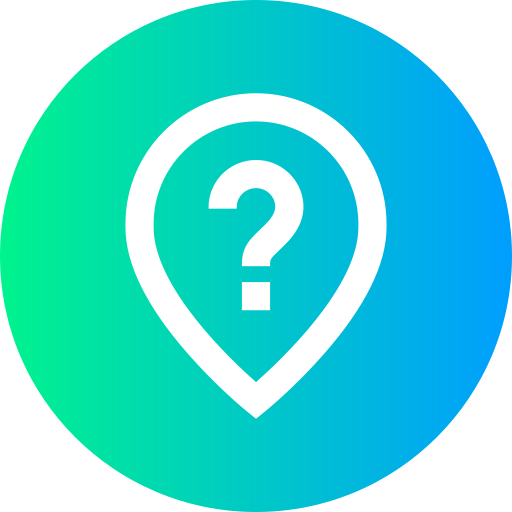
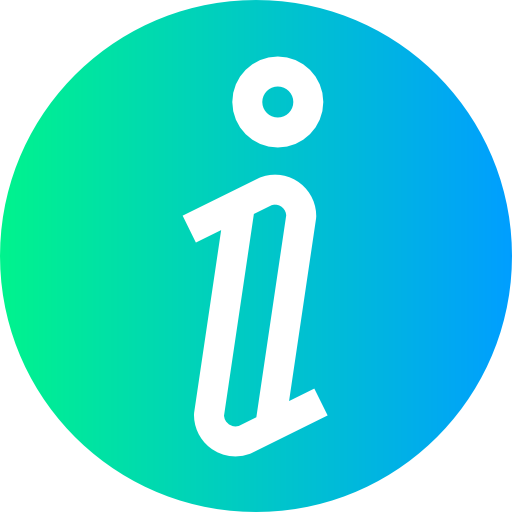
about modal info added

Changed region(s): [[0.2188, 0.0938, 0.7812, 0.9062]]

diff --git a/Components/CardAbout/CardAbout.js b/Components/CardAbout/CardAbout.js
@@ -1,0 +1,74 @@
+import React from 'react';
+import {View, Text, StyleSheet} from 'react-native';
+import {Card, Button} from 'react-native-elements';
+
+const CardAbout = ({...props}) => {
+  const {setModalVisible, visible} = props;
+
+  return (
+    <Card
+      containerStyle={styles.cardContainer}
+      wrapperStyle={styles.cardWrapperStyle}
+      title="About StibTrack">
+      <View style={styles.body}>
+        <Text style={styles.textCommon}>
+          The goal of StibTrack is to provide reliable real-time tracking
+          information obtained directly from STIB-MIVB public API. You'll find
+          any STIB-MIVB vehicle real-time position on the map as well as stops,
+          lines road, and more!
+        </Text>
+        <Text style={styles.textCommon}>
+          Most available applications provide only the schedule of any given
+          line (potential arrival/departure), so you can only guess where
+          exactly you transport is. But if you are an every-day user of
+          STIB-MIVB transportation system, you might want to have the
+          possibility to check where your next ride is, and be a little bit
+          ahead of time.
+        </Text>
+        <Text style={styles.textCommon}>
+          This is an open-source project, so if you want to dig a little bit in
+          the code, , please check the GitHub repo "dalisalvador/stib".
+        </Text>
+      </View>
+      <View style={styles.button}>
+        <Button
+          raised
+          title="Close"
+          onPress={() => setModalVisible(!visible)}
+        />
+      </View>
+    </Card>
+  );
+};
+
+const styles = StyleSheet.create({
+  body: {
+    flex: 1,
+    // backgroundColor: 'white',
+  },
+  button: {
+    justifyContent: 'flex-end',
+  },
+  cardWrapperStyle: {
+    borderWidth: 0,
+    flex: 1,
+  },
+  textCommon: {
+    fontSize: 15,
+    marginBottom: 5,
+  },
+  cardContainer: {
+    // backgroundColor: 'black',
+    flex: 1,
+    height: '100%',
+    flexDirection: 'column',
+    borderWidth: 0, // Remove Border
+    shadowColor: 'rgba(0,0,0, 0.0)', // Remove Shadow IOS
+    shadowOffset: {height: 0, width: 0},
+    shadowOpacity: 0,
+    shadowRadius: 0,
+    elevation: 0, // This is for Android
+  },
+});
+
+export default CardAbout;

diff --git a/App.js b/App.js
@@ -4,6 +4,7 @@ import {StyleSheet, View, Dimensions, Text} from 'react-native';
 import Geojson from 'react-native-geojson';
 import ModalAdd from './Components/Modal/ModalAdd';
 import ModalSettings from './Components/Modal/ModalSettings';
+import ModalAbout from './Components/Modal/ModalAbout';
 
 import {AllLinesProvider} from './allLinesContext';
 import map from './assets/map';
@@ -70,11 +71,9 @@ const progress = runTiming(clock, 0, 100);
 
 const App = () => {
   //Modals
-  const [modalVisible, setModalVisible] = useState(false);
+  const [modalLines, setModalLines] = useState(false);
   const [modalSettings, setModalSettings] = useState(false);
-
-  //Main Action Button
-  const [mainPressed, setMainPressed] = useState(false);
+  const [modalAbout, setModalAbout] = useState(false);
 
   //Lines+Stops
   const [allLines, setAllLines] = useState();
@@ -262,16 +261,16 @@ const App = () => {
           }
         </Animated.Code>
         <FloatingButton
-          mainPressed={mainPressed}
-          setMainPressed={setMainPressed}
-          setModalVisible={setModalVisible}
+          setModalLines={setModalLines}
           setModalSettings={setModalSettings}
+          setModalAbout={setModalAbout}
         />
-        <ModalAdd visible={modalVisible} setModalVisible={setModalVisible} />
+        <ModalAdd visible={modalLines} setModalVisible={setModalLines} />
         <ModalSettings
           modalSettings={modalSettings}
           setModalSettings={setModalSettings}
         />
+        <ModalAbout visible={modalAbout} setModalVisible={setModalAbout} />
         <Toast position="bottom" ref={toast} />
       </Fragment>
     </AllLinesProvider>

diff --git a/Components/FloatingButton/FloatingButton.js b/Components/FloatingButton/FloatingButton.js
@@ -6,20 +6,15 @@ import menu from '../../assets/img/menu.png';
 import add from '../../assets/img/add.png';
 
 export default function FloatingButton({...props}) {
-  const {
-    setMainPressed,
-    mainPressed,
-    setModalVisible,
-    setModalSettings,
-  } = props;
+  const {setModalLines, setModalSettings, setModalAbout} = props;
   const actions = [
     {
       // text: 'Add Line',
       icon: require('../../assets/img/add.png'),
       name: 'addLine',
       position: 1,
-      iconWidth: 45,
-      iconHeight: 45,
+      iconWidth: 40,
+      iconHeight: 40,
     },
     {
       // text: 'Settings',
@@ -45,15 +40,10 @@ export default function FloatingButton({...props}) {
       floatingIcon={menu}
       iconWidth={57}
       iconHeight={57}
-      onPressMain={() => setMainPressed(!mainPressed)}
-      onPressBackdrop={() => setMainPressed(false)}
       onPressItem={name => {
-        if (name === 'addLine') {
-          setMainPressed(false);
-          setModalVisible(true);
-        } else if (name === 'settings') {
-          setModalSettings(true);
-        }
+        if (name === 'addLine') setModalLines(true);
+        else if (name === 'settings') setModalSettings(true);
+        else if (name === 'about') setModalAbout(true);
       }}
     />
   );

diff --git a/Components/Modal/ModalAbout.js b/Components/Modal/ModalAbout.js
@@ -1,0 +1,34 @@
+import React, {Component, Fragment, useState} from 'react';
+import {
+  Modal,
+  Text,
+  TouchableHighlight,
+  TouchableOpacity,
+  View,
+  Alert,
+  Dimensions,
+  StyleSheet,
+} from 'react-native';
+
+import CardAbout from '../CardAbout/CardAbout';
+
+const ModalAdd = ({...props}) => {
+  const {visible, setModalVisible} = props;
+  return (
+    <Modal animationType="slide" visible={visible}>
+      <View style={styles.modalBody}>
+        <CardAbout setModalVisible={setModalVisible} visible={visible} />
+      </View>
+    </Modal>
+  );
+};
+
+const styles = StyleSheet.create({
+  modalBody: {
+    height: '100%',
+    flex: 1,
+    width: Dimensions.get('window').width,
+    // backgroundColor: 'blue',
+  },
+});
+export default ModalAdd;
